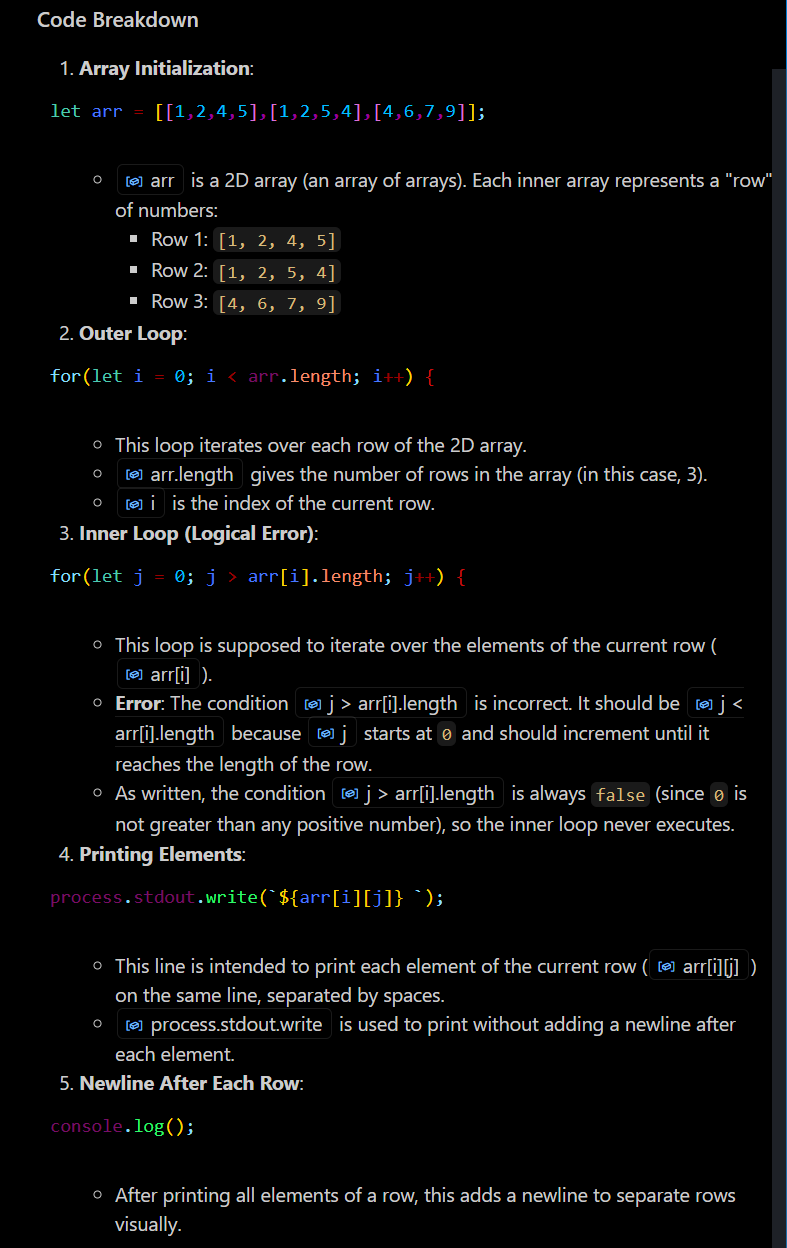
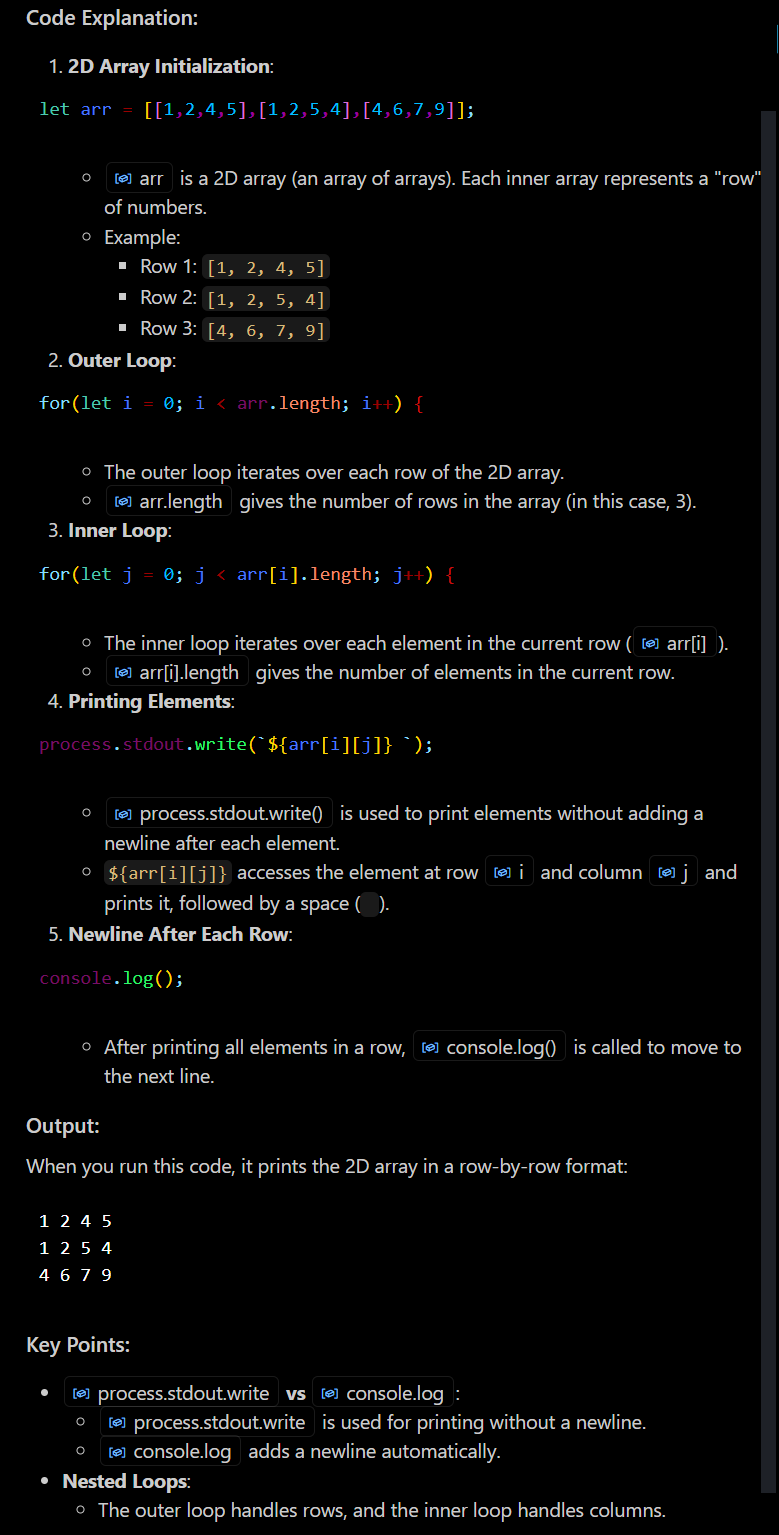
work in progess

Changed region(s): [[0.0308, 0.0, 1.0, 1.0]]

diff --git a/43_mastering_multi_dimentional_array/practice.js b/43_mastering_multi_dimentional_array/practice.js
@@ -1,6 +1,6 @@
 let arr = [[1,2,4,5],[1,2,5,4],[4,6,7,9]]
 for(let i = 0; i < arr.length; i++){
-    for(let j = 0; j > arr[i].length; j++){
+    for(let j = 0; j < arr[i].length; j++){
         process.stdout.write(`${arr[i] [j]} `)
     }
     console.log();
